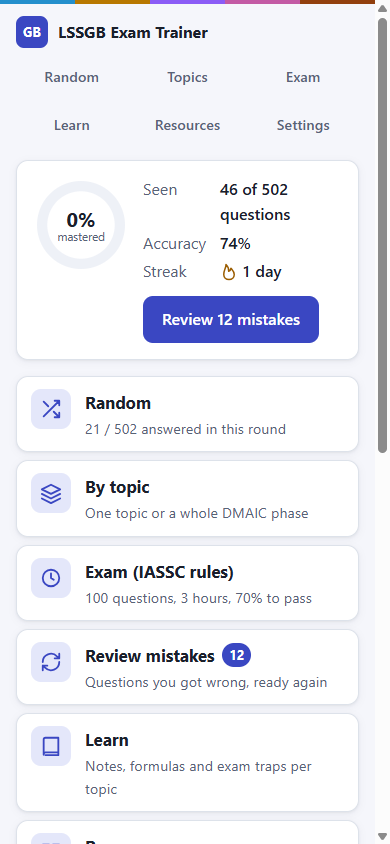
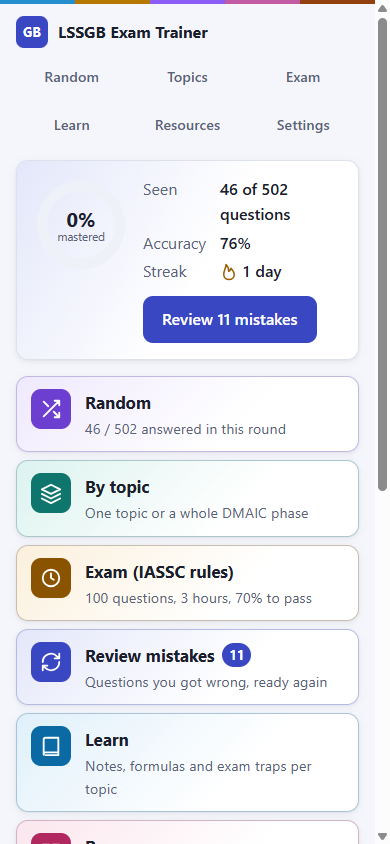
Colour pass (mode and phase colours, gentle feedback burst), refreshed screenshots, DEVLOG

diff --git a/css/app.css b/css/app.css
@@ -18,6 +18,9 @@
   --ph-define: #248fcc;  --ph-measure: #b87800;  --ph-analyze: #8b5cf6;  --ph-improve: #c35aa4;  --ph-control: #92400e;
   --ph-general: #6b7280;
   --cheer-bg: #fff3d6;  --cheer-ink: #7a4a00;
+  --hue-violet: #6d3fd0;  --hue-violet-tint: #efe9fd;  --hue-teal: #0f766e;  --hue-teal-tint: #dcf3ef;
+  --hue-amber: #8a5300;  --hue-amber-tint: #fbf0dc;  --hue-indigo: #3a47c2;  --hue-indigo-tint: #e4e7fa;
+  --hue-sky: #0b6aa3;  --hue-sky-tint: #e0f0fa;  --hue-rose: #b0285f;  --hue-rose-tint: #fbe6ee;  --hue-on: #ffffff;
   color-scheme: light;
 }
 @media (prefers-color-scheme: dark) {
@@ -32,6 +35,9 @@
     --ph-define: #1292c0;  --ph-measure: #af8724;  --ph-analyze: #6764dd;  --ph-improve: #a5598d;  --ph-control: #ae520a;
     --ph-general: #8a93a3;
     --cheer-bg: #3d3018;  --cheer-ink: #f3c46b;
+    --hue-violet: #b79cfb;  --hue-violet-tint: #2e2552;  --hue-teal: #5ccfbf;  --hue-teal-tint: #163a37;
+    --hue-amber: #f0b45a;  --hue-amber-tint: #3a2d17;  --hue-indigo: #8b98f7;  --hue-indigo-tint: #2a3150;
+    --hue-sky: #74c0f0;  --hue-sky-tint: #16324a;  --hue-rose: #f08bb3;  --hue-rose-tint: #41202f;  --hue-on: #151b26;
     --shadow: none;
     color-scheme: dark;
   }
@@ -47,6 +53,9 @@
   --ph-define: #1292c0;  --ph-measure: #af8724;  --ph-analyze: #6764dd;  --ph-improve: #a5598d;  --ph-control: #ae520a;
   --ph-general: #8a93a3;
   --cheer-bg: #3d3018;  --cheer-ink: #f3c46b;
+  --hue-violet: #b79cfb;  --hue-violet-tint: #2e2552;  --hue-teal: #5ccfbf;  --hue-teal-tint: #163a37;
+  --hue-amber: #f0b45a;  --hue-amber-tint: #3a2d17;  --hue-indigo: #8b98f7;  --hue-indigo-tint: #2a3150;
+  --hue-sky: #74c0f0;  --hue-sky-tint: #16324a;  --hue-rose: #f08bb3;  --hue-rose-tint: #41202f;  --hue-on: #151b26;
   --shadow: none;
   color-scheme: dark;
 }
@@ -426,6 +435,80 @@ h2 .ph-badge { margin-right: 10px; vertical-align: -6px; }
 .step-answer { background: var(--ok-bg); box-shadow: inset 4px 0 0 var(--ok); }
 .step-answer .step-label { color: var(--ok-ink); }
 .step-answer .step-text { font-weight: 600; }
+
+/* ---------- colour identity: modes and resource kinds ----------
+   Six hues for the Home mode tiles and the resource kind chips (--hue-<name> ink, --hue-<name>-tint background).
+   Decoration only: the tile title or chip text always names the mode or kind. Ink on tint >= 4.7:1 in both themes;
+   the tile order (violet, teal / amber, indigo / sky, rose) keeps grid neighbours apart (validator: normal dE >= 17.8,
+   colour-blind dE >= 8.9, light and dark). Phase colours (--ph-*) stay reserved for DMAIC phases. */
+.hue-violet { --hue: var(--hue-violet); --hue-tint: var(--hue-violet-tint); }
+.hue-teal   { --hue: var(--hue-teal);   --hue-tint: var(--hue-teal-tint); }
+.hue-amber  { --hue: var(--hue-amber);  --hue-tint: var(--hue-amber-tint); }
+.hue-indigo { --hue: var(--hue-indigo); --hue-tint: var(--hue-indigo-tint); }
+.hue-sky    { --hue: var(--hue-sky);    --hue-tint: var(--hue-sky-tint); }
+.hue-rose   { --hue: var(--hue-rose);   --hue-tint: var(--hue-rose-tint); }
+
+.tile[class*="hue-"] { background: linear-gradient(135deg, var(--hue-tint), var(--panel) 65%); border-color: color-mix(in srgb, var(--hue) 25%, var(--line)); }
+.tile[class*="hue-"] .tile-icon { background: var(--hue); color: var(--hue-on); }
+@media (hover: hover) { .tile[class*="hue-"]:hover { border-color: var(--hue); } }
+
+.chip.kind-table      { background: var(--hue-sky-tint);    color: var(--hue-sky); }
+.chip.kind-diagram    { background: var(--hue-violet-tint); color: var(--hue-violet); }
+.chip.kind-example    { background: var(--hue-teal-tint);   color: var(--hue-teal); }
+.chip.kind-cheatsheet { background: var(--hue-amber-tint);  color: var(--hue-amber); }
+.filter[data-kind="table"]::before, .filter[data-kind="diagram"]::before,
+.filter[data-kind="example"]::before, .filter[data-kind="cheatsheet"]::before {
+  content: ""; width: 10px; height: 10px; border-radius: 3px; background: var(--k);
+}
+.filter[data-kind="table"] { --k: var(--hue-sky); }
+.filter[data-kind="diagram"] { --k: var(--hue-violet); }
+.filter[data-kind="example"] { --k: var(--hue-teal); }
+.filter[data-kind="cheatsheet"] { --k: var(--hue-amber); }
+.filter[aria-pressed="true"]::before { box-shadow: 0 0 0 2px var(--btn-ink); }
+
+/* welcome: soft washes of the phase colours behind the text (<= 12%, text contrast stays >= 4.5:1) */
+.welcome {
+  position: relative; overflow: hidden; border-top: 0;
+  background:
+    radial-gradient(circle at 100% 0, color-mix(in srgb, var(--ph-analyze) 12%, transparent), transparent 45%),
+    radial-gradient(circle at 0 100%, color-mix(in srgb, var(--ph-define) 10%, transparent), transparent 50%),
+    var(--panel);
+}
+.welcome::before {
+  content: ""; position: absolute; inset: 0 0 auto; height: 5px;
+  background: linear-gradient(90deg, var(--ph-define), var(--ph-measure), var(--ph-analyze), var(--ph-improve), var(--ph-control));
+}
+.welcome-art { display: flex; gap: 6px; float: right; margin: 0 0 8px 16px; }
+.welcome-art .ph-badge { transform: rotate(-6deg); box-shadow: 0 2px 6px rgba(20, 28, 48, .15); }
+.welcome-art .ph-badge:nth-child(even) { transform: rotate(5deg) translateY(4px); }
+@media (max-width: 480px) { .welcome-art { float: none; margin: 0 0 12px; } }
+
+/* question card: phase colour on top, phase chip in a tint of the same colour */
+.qcard[class*="ph-"] { border-top: 4px solid var(--ph); }
+.qcard .phase-chip { background: color-mix(in srgb, var(--ph) 18%, var(--panel)); }
+.qcard .dot { width: 10px; height: 10px; }
+
+/* learn and resource pages: the phase colour on top of the article, a small badge in the breadcrumb */
+.learn[class*="ph-"] { border-top: 4px solid var(--ph); }
+.ph-badge.xs { width: 20px; height: 20px; border-radius: 6px; font-size: .72rem; margin-right: 6px; vertical-align: -4px; }
+.learn .lead { padding-left: 12px; border-left: 3px solid var(--ph, var(--accent)); }
+
+/* topic and learn lists: a faint wash of the phase colour under the card header */
+.phase-card { background: linear-gradient(to bottom, color-mix(in srgb, var(--ph) 8%, var(--panel)), var(--panel) 96px); }
+
+/* home summary: a soft accent wash, the ring in the accent */
+.summary { background: linear-gradient(120deg, var(--accent-soft), var(--panel) 55%); }
+.summary.passed .ring-fill { stroke: var(--ok); }
+
+/* feedback: a single soft burst behind the verdict icon on Confirm (none with reduced motion) */
+.feedback.anim .explain.ok .verdict-icon { animation: burst-ok .7s ease-out; }
+.feedback.anim .explain.bad .verdict-icon { animation: burst-bad .5s ease-out; }
+.feedback.anim .cheer { animation: pop .35s ease-out, burst-cheer .8s ease-out; }
+@keyframes burst-ok { 0% { box-shadow: 0 0 0 0 color-mix(in srgb, var(--ok) 60%, transparent); transform: scale(.7); }
+  50% { transform: scale(1.15); } 100% { box-shadow: 0 0 0 16px transparent; transform: none; } }
+@keyframes burst-bad { 0% { box-shadow: 0 0 0 0 color-mix(in srgb, var(--bad) 45%, transparent); } 100% { box-shadow: 0 0 0 10px transparent; } }
+@keyframes burst-cheer { 0% { box-shadow: 0 0 0 0 color-mix(in srgb, var(--cheer-ink) 45%, transparent); } 100% { box-shadow: 0 0 0 12px transparent; } }
+.explain.ok .verdict-icon { box-shadow: 0 0 0 4px var(--ok-bg); }
 
 /* ---------- dialog ---------- */
 dialog {

diff --git a/js/resources.js b/js/resources.js
@@ -14,7 +14,8 @@ var Resources = (function () {
   function kindName(id) { var k = KINDS.find(function (x) { return x.id === id; }); return k ? k.one : id; }
   function href(r) { return "#/resources/" + encodeURIComponent(r.id); }
   function phaseName(id) { var p = U.phase(id); return p ? p.name : "General"; }
-  function kindChip(r) { return h("span", { class: "chip", text: kindName(r.kind) }); }
+  // Tinted per kind in css/app.css (.chip.kind-*); the text names the kind, so the colour is decoration.
+  function kindChip(r) { return h("span", { class: "chip kind-" + r.kind, text: kindName(r.kind) }); }
 
   // ---------- index ----------
 
@@ -70,7 +71,7 @@ var Resources = (function () {
 
   function renderDetail(main, id) {
     var r = RES.get(id);
-    main.appendChild(h("p", { class: "crumbs" }, h("a", { href: "#/resources" }, "Resources"), r ? " / " + phaseName(r.phase) : ""));
+    main.appendChild(h("p", { class: "crumbs" }, h("a", { href: "#/resources" }, "Resources"), r ? [" / ", U.phaseBadge(r.phase, "xs"), phaseName(r.phase)] : ""));
     if (!r) {
       main.appendChild(h("h1", { text: "Resource not found" }));
       main.appendChild(h("div", { class: "card empty" }, h("p", { text: "This resource is not in the library (it may have been renamed)." }),
@@ -85,7 +86,7 @@ var Resources = (function () {
     });
     main.appendChild(chips);
 
-    var art = h("article", { class: "card learn res" });
+    var art = h("article", { class: "card learn res " + U.phaseClass(r.phase) });
     art.appendChild(h("p", { class: "lead prose", text: r.summary }));
     if (r.img) {
       // A white panel in both themes: the diagrams are drawn for white (docs/CONTENT_GUIDE.md, Diagram style).

diff --git a/js/app.js b/js/app.js
@@ -115,6 +115,7 @@ var App = (function () {
   // First visit: one place to start. The tiles below explain each mode in one line, so this card does not repeat them.
   function welcome(total) {
     return h("section", { class: "card welcome", "aria-labelledby": "welcome-title" },
+      h("div", { class: "welcome-art", "aria-hidden": "true" }, U.phases().map(function (p) { return U.phaseBadge(p.id); })),
       h("h2", { id: "welcome-title", class: "welcome-title", text: "Practise for the IASSC Green Belt exam, one question at a time" }),
       h("p", { class: "prose", text: "Start with a random question: after each answer you see why every option is right or wrong. Questions you miss come back for review. Or pick a mode below." }),
       h("a", { class: "btn", href: "#/random" }, "Start with a random question"),
@@ -161,8 +162,10 @@ var App = (function () {
     return sec;
   }
 
+  // Each mode has its own hue (css/app.css, --hue-*); the title always names the mode, so colour is decoration.
+  var MODE_HUE = { random: "violet", topics: "teal", exam: "amber", review: "indigo", learn: "sky", resources: "rose" };
   function tile(href, ic, title, sub, badge) {
-    return h("a", { class: "tile", href: href },
+    return h("a", { class: "tile hue-" + MODE_HUE[href.slice(2)], href: href },
       h("span", { class: "tile-icon" }, U.icon(ic)),
       h("span", { class: "tile-text" },
         h("span", { class: "tile-title" }, title, badge ? h("span", { class: "badge", text: badge }) : null),

diff --git a/js/learn.js b/js/learn.js
@@ -93,7 +93,7 @@ var Learn = (function () {
 
   function renderTopic(main, id) {
     var t = U.topic(id), p = LEARN.get(id);
-    main.appendChild(h("p", { class: "crumbs" }, h("a", { href: "#/learn" }, "Learn"), t ? " / " + U.phase(t.phase).name : ""));
+    main.appendChild(h("p", { class: "crumbs" }, h("a", { href: "#/learn" }, "Learn"), t ? [" / ", U.phaseBadge(t.phase, "xs"), U.phase(t.phase).name] : ""));
     if (!t) {
       main.appendChild(h("h1", { text: "Topic not found" }));
       main.appendChild(h("div", { class: "card empty" }, h("p", { text: "This topic is not in the course (it may have been renamed)." }),
@@ -105,7 +105,7 @@ var Learn = (function () {
     if (Quiz.backHref()) main.appendChild(h("p", null, h("a", { class: "btn ghost small", href: Quiz.backHref() }, "← Back to questions")));
     if (!p) { main.appendChild(h("p", { class: "card muted", text: "No notes for this topic yet." })); }
     else {
-      var art = h("article", { class: "card learn" });
+      var art = h("article", { class: "card learn " + U.phaseClass(t.phase) });
       art.appendChild(h("p", { class: "lead prose", text: p.summary }));
       if (p.points && p.points.length) art.appendChild(section("Key points", list(p.points)));
       if (Array.isArray(p.formulas) && p.formulas.length) {

diff --git a/js/quiz.js b/js/quiz.js
@@ -131,7 +131,7 @@ var Quiz = (function () {
     main.appendChild(h("div", { class: "qhead" }, h("span", { class: "muted tnum", text: headText }), endLink));
     main.appendChild(U.bar(share, shareAfter, headText));
 
-    var box = h("section", { class: "card qcard", "aria-labelledby": "qtext" });
+    var box = h("section", { class: "card qcard " + (t ? U.phaseClass(t.phase) : ""), "aria-labelledby": "qtext" });
     var ph = t && U.phase(t.phase);
     box.appendChild(h("p", { class: "chip-row" },
       ph ? h("span", { class: "chip phase-chip " + U.phaseClass(ph.id) }, h("span", { class: "dot", "aria-hidden": "true" }), ph.name) : null,
@@ -163,7 +163,7 @@ var Quiz = (function () {
       h("span", { class: "muted small hint", text: done ? "Enter: next" : card.sel < 0 ? "Keys 1-4 or A-D to select" : "Enter: confirm · you can still change" }),
       go));
 
-    var fb = h("div", { class: "feedback", "aria-live": "polite" });
+    var fb = h("div", { class: "feedback" + anim, "aria-live": "polite" });   // anim: the verdict bursts once, on Confirm
     if (done) {
       var right = card.chosen === q.answer;
       fb.appendChild(explain(q, card.perm, card.chosen, true, scheduleNote(q.id, right), right && card.inARow >= 3 ? card.inARow + " in a row" : null));

diff --git a/docs/DEVLOG.md b/docs/DEVLOG.md
@@ -2,7 +2,7 @@
 
 ## Current status
 
-348 questions and 27 learn pages, all fact-checked. Modes: Random round, By topic/phase round, Exam (IASSC rules), Review mistakes (Leitner), Learn. Wave 2 running (resources, UI/UX, +152 questions).
+348 questions and 27 learn pages, all fact-checked. Modes: Random round, By topic/phase round, Exam (IASSC rules), Review mistakes (Leitner), Learn. 502 questions, 27 learn pages, 54 resources (30 tables/examples/cheat sheets, 24 diagrams), all fact-checked. Phase and mode colours. Public docs and licenses (MIT code, CC BY 4.0 content). Published to GitHub Pages.
 
 ## Plan
 
@@ -32,6 +32,7 @@
 - 2026-10-27: network drop stopped four agents mid-task; resumed, no work lost.
 - 2026-10-27: wave-end review fixed 6 bugs (DST streak, midnight due dates, double-counted review card, round scope, key repeat, timeout submit). User approved public repo + Pages; publish blocked once by the permission check, now approved.
 - 2026-10-27: wave 2 started: UI/UX + Resources section (1 agent); resource tables/examples (1); diagrams Define/Measure and Analyze/Improve/Control (2); +152 questions in packs define3, measure3, analyze2, improve2, control2 (5), each to be fact-checked. Then publication skill, short docs, publish.
+- 2026-10-27: wave 2 done. Five new packs (+154 questions) and all resources fact-checked (diagram fixes: fishbone placed in Measure on the roadmap, p-value area label, slope triangle). Wave-end review: double-click Confirm guard, per-card streak, stricter SVG inertness check. Question id now shown under explanations. Open-source audit clean (no secrets/PII, noreply identity, history never pushed). Docs, licenses, issue forms and a path-filtered validate workflow added.
 
 ## Course material errors found (not used in questions)
 

diff --git a/docs/USER_GUIDE.md b/docs/USER_GUIDE.md
@@ -15,7 +15,7 @@ Open the app at <https://themathub.github.io/lssgb-exam-trainer/>. It runs in an
 
 Your progress saves itself in this browser after every answer. You need no account.
 
-<p align="center"><img src="screenshots/phone-home.png" alt="Home on a phone after some practice: 46 of 502 seen, 74% accuracy, a Review 12 mistakes button" width="260"></p>
+<p align="center"><img src="screenshots/phone-home.png" alt="Home on a phone after some practice: 46 of 502 seen, 76% accuracy, a Review 11 mistakes button" width="260"></p>
 
 ## A study plan for 2 to 4 weeks
 
